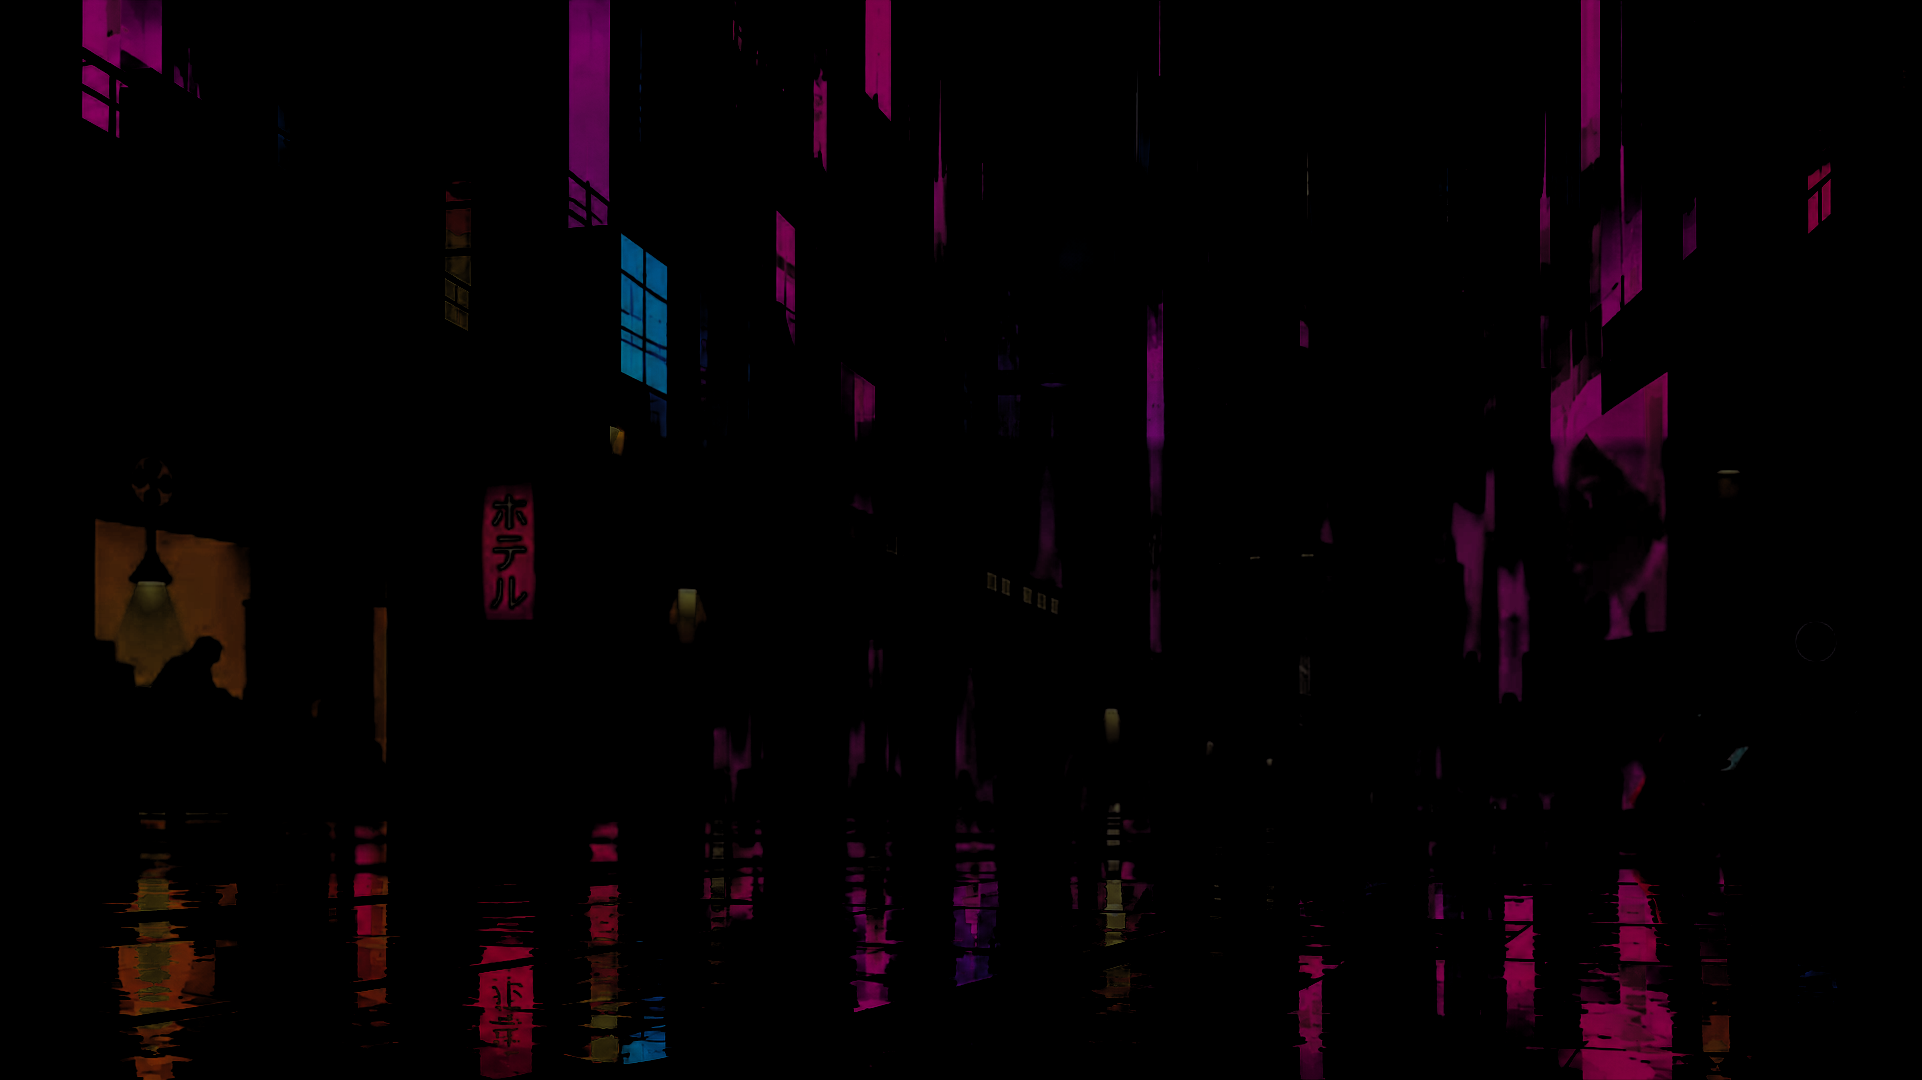
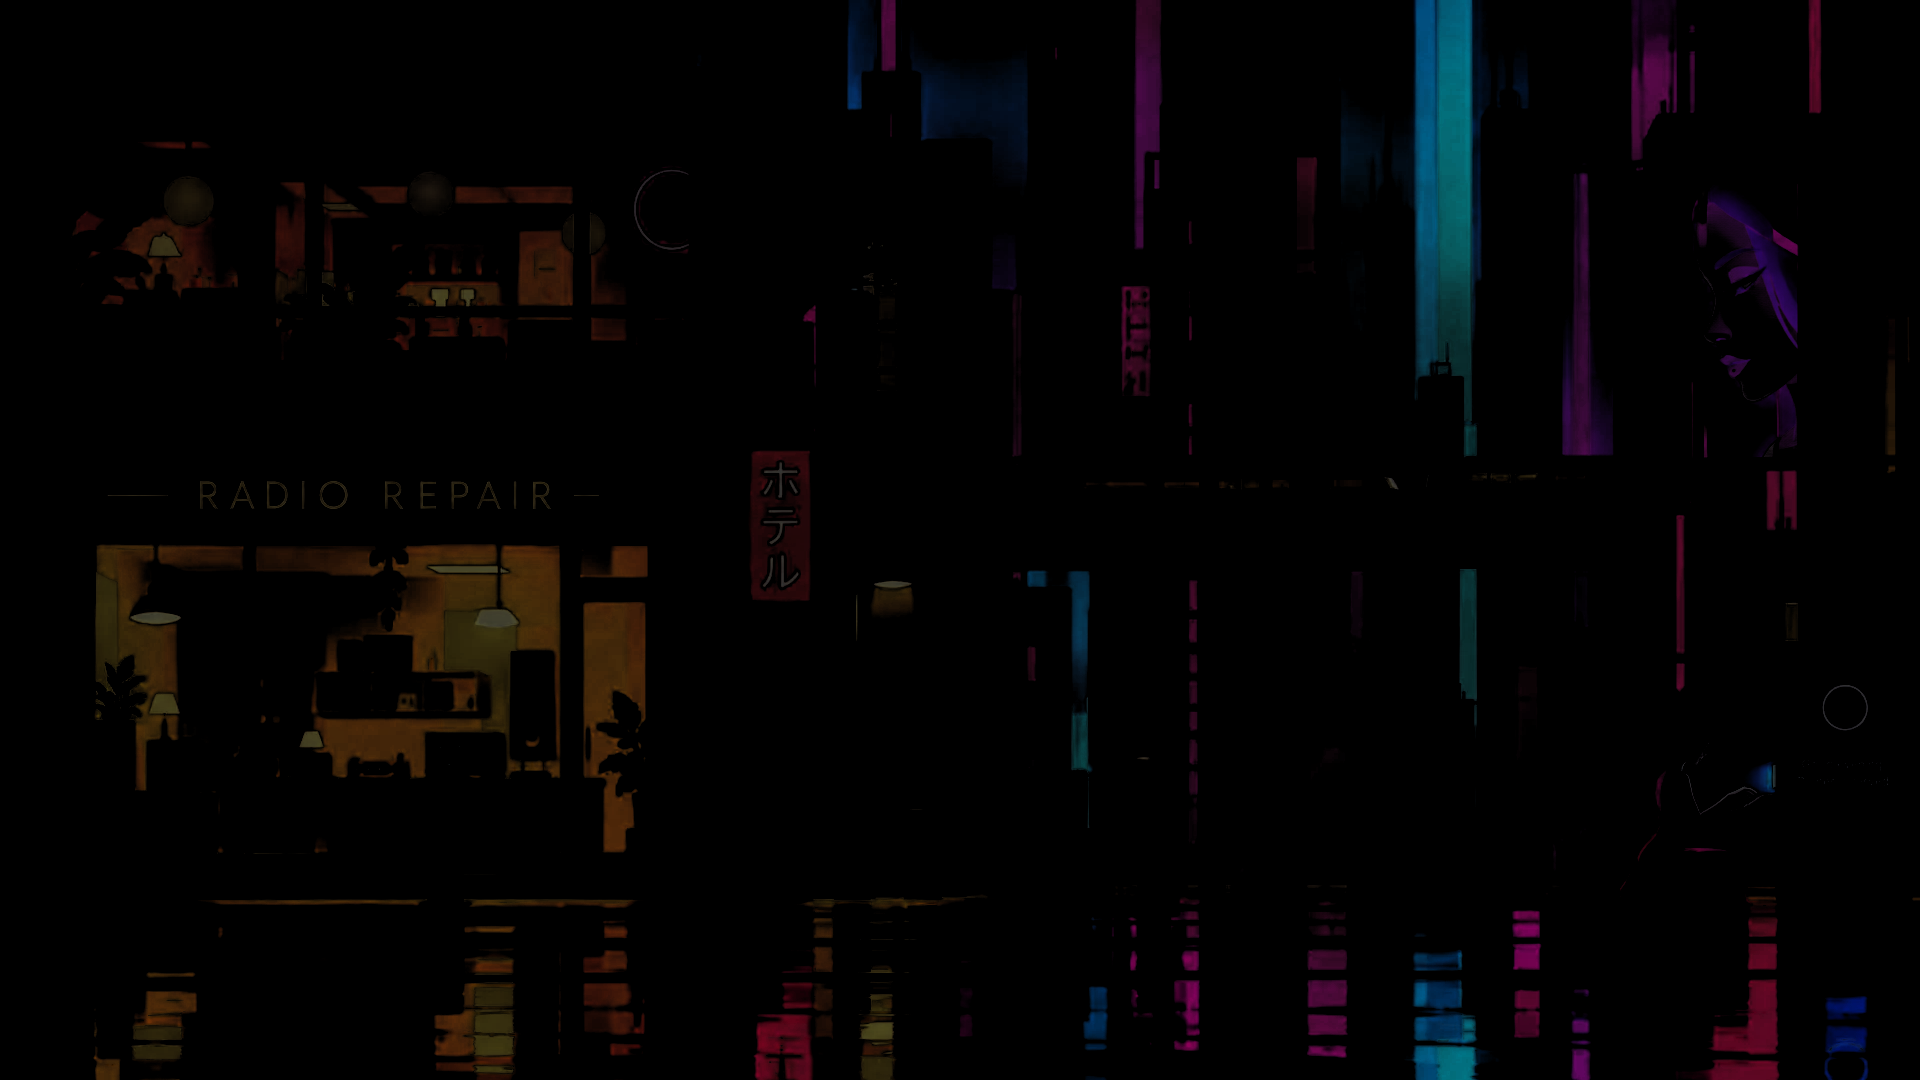
Rebuild the main street in the flat look
The director's two pictures of the street are the new look reference
(art/reference/look/, docs/art/LIDLESS_Look_Reference_v1_2026-10-19.md), chosen
so scenes can later be split into parallax layers. The street is built from them
at 2x: Lux taken out of both views, and what the story needs painted back in the
same style: the woman at the dining machine in both views, the sleeper, the
shop's gold-leaf sign, the Concierge's face on the billboard and the raw poster
in its place, and the moon. Raw lettering follows the world bible: ОТЕЛЬ, and a
blank machine screen.

Hotspots, lights, spawns, light shafts, steam, drips, beacons and indoor zones
moved onto the new picture; Lux at the reference's size along the bollards
(actorScale 0.46, walk line 452). The playthrough's clicks follow the face and
the shop door.

diff --git a/docs/ASSETS.md b/docs/ASSETS.md
@@ -208,16 +208,17 @@ loops instead: a picture as frame 0 and a few frames where only part of it chang
 
 ### Painted scenes
 
-The main street is the first scene in the current look: flat, simple shapes with the drama in the light, like a modern
-Another World (`art/reference/street-lighting-variants.webp`, `style-another-world-modern-2.webp`). Its background is
-one picture per view with its night light painted in, and the engine adds what moves and what lights the characters.
+The main street is the first scene in the current look, the flat look (`art/reference/look/`, and
+docs/art/LIDLESS_Look_Reference_v1_2026-10-19.md): flat, simple shapes with the drama in the light, so that a scene can
+later be split into layers that move at their own speed. Its background is one picture per view with its night light
+painted in, and the engine adds what moves and what lights the characters.
 
 - `baked: 1` shows the set as painted: the scene's lights add only a little to it, and its painted reflections are not
   mirrored again; only the characters are. The lights are there for the characters: put them on the painted lamps,
   signs and windows, with a soft fill in the scene's colour (layer 1) so the hero reads against the city, and keep
   their `haze` low, or the painted glow doubles up. A lamp keeps the colour it is given in raw view.
-- `actorScale` is how big people are drawn: on the street 0.58, walking at its front edge (walk line 470), so she is in
-  the foreground and not out in the plaza; in her home 0.44, the right size for its door and furniture. Characters are
+- `actorScale` is how big people are drawn: on the street 0.46, walking along the bollards (walk line 452) at the size
+  the look reference shows her; in her home 0.44, the right size for its door and furniture. Characters are
   sampled smoothly and shrunk by averaging what each screen pixel covers, their colours bled a few pixels past their
   edges by the build, so a small figure keeps clean edges and does not sparkle or boil as she walks. Her pace on screen goes with its square root. Under 1 the engine averages the sprite's pixels, so she shrinks
   smoothly; over 1 is a closeup.
@@ -227,7 +228,7 @@ one picture per view with its night light painted in, and the engine adds what m
 - The painted art's own neon, windows and lamps glow (`glow: auto` in its recipe), so bloom and light shafts have
   something to work with; the street adds haze under its lamps, light shafts, drips from the shop's awning and steam.
 - `actorLight` shows the scene's people in their own drawn colours times a tint, one per view (the street: a touch of
-  violet in the Concierge's, olive and dimmer in raw), with the lamps near them adding their light. Flat-shaded figures
+  violet in the Concierge's, warm and dimmer in raw), with the lamps near them adding their light. Flat-shaded figures
   then read as in the concept art instead of dimmed by the night.
 - A painted scene's colours are final: the game's built-in grade and film curve are left out for it, its colours pass
   straight through with a soft shoulder over the light the game adds, so the street and its people come out as drawn
@@ -241,9 +242,12 @@ gone (`art/home/cutaway.json`): her floor lit in the middle of the frame, the ne
 city on either side. The scene walks her along her floor; the city at the sides is outside (`zones`), so the rain
 falls there, and rings from the rain only show on ground that reflects.
 
-How the street was made: `npm run asset -- extend` placed the concept panel of the Concierge's view in a 16:9 frame and
-had the rest painted around it; `touch` took Lux out of the picture, `redress --ref` made the raw view from it with
-the raw panel as reference, and `touch` added the sleeper.
+How the street was made: the two pictures of the look reference, scaled to 1920 by 1080, were imported as its two
+views. `touch` took Lux out of both and painted back what the scene's story needs: the woman at the dining machine (in
+raw first, then laid under the Concierge's picture so its woman in red kneels in the same place), the sleeper in raw,
+the shop's gold-leaf sign in both views, the Concierge's face on the billboard with a poster in its place in raw, and
+the moon. Raw lettering follows the world bible: the hotel sign reads ОТЕЛЬ and the machine's screen is blank. The
+earlier painted street is in git's history.
 
 Lux was designed again in the look: `art/cast/lux-concierge.json` generated her Concierge self in profile with the
 flat reference figure from the concept art, and `redress` made her raw self from it, the same outline in her worn

diff --git a/docs/art/LIDLESS_Look_Reference_v1_2026-10-19.md b/docs/art/LIDLESS_Look_Reference_v1_2026-10-19.md
@@ -1,0 +1,65 @@
+# LIDLESS — The flat look: look reference v1
+**19 October 2026 · the current reference for how the game looks**
+
+The director chose the flat look for the game: flat, simple shapes with the drama in the light, glow and reflections.
+It replaces the painted street of the earlier references (`art/reference/street-*`, `style-*`). One reason for it is
+the next step: flat shapes come apart cleanly, so a scene's foreground and background can be split into layers that
+move at their own speed (parallax).
+
+## The pictures
+
+In `art/reference/look/`, the main street in both views, as the director proposed it:
+
+| File | What it shows |
+| --- | --- |
+| `flat-street-concierge.webp` | The Concierge's street: a warm bar upstairs, the radio shop glowing gold, a red neon ホテル, a city of violet, blue, pink and cyan towers, a train on the viaduct, the dining machine with its blue ring. |
+| `flat-street-raw.webp` | The same street in raw view: the same building dim and worn, smokestacks and refinery towers in amber-brown smog, the machine rusted, with pipes. |
+
+Lux walks along the bollards in both, about a fifth of the picture tall.
+
+## What makes the look
+
+- **Shapes.** Large flat areas of colour, a few tones per surface, crisp edges, little texture. Buildings are blocks,
+  towers are slabs, plants and people are silhouettes or simple figures.
+- **Light.** The light is where the detail goes: glowing windows, lamps throwing cones through the air, neon, and long
+  vertical reflections on the wet ground. The engine adds what moves: rain, drips, steam, light shafts, bloom, the
+  traffic, the beacons, and the lights on the characters.
+- **The two views.** The same buildings in the same places. The Concierge's view is saturated violet, blue, pink and
+  cyan, warm and clean; raw view is the same street in amber-brown smog, industrial and rusted.
+
+## The street in the game
+
+`art/street/vista.json` is built from the two pictures at twice the level's resolution (see ASSETS.md, Resolution).
+What the scene's story needs was painted back in the same style, and everything else is as proposed:
+
+| Added | Why |
+| --- | --- |
+| The woman at the dining machine: in raw, wire-thin, her wrist locked in its cradle; to the Concierge, a woman in a red dress, dining | A story beat (hotspot `dock`) |
+| A man asleep on the shop's step, raw view only | Hotspot `sleeper` |
+| The shop's gold-leaf sign: RADIO REPAIR, and РЕМОНТ РАДИО in raw | Hotspot `sign`; the world bible's hand-made lettering on the radio repair shop |
+| The Concierge's face on the tall billboard, and in raw a faded poster of a stern man, ПОРЯДОК | Hotspot `sky` |
+| A pale moon in the raw smog | Hotspot `moon` |
+| Raw lettering: the corner sign reads ОТЕЛЬ, the dining machine's screen shows no text | The world bible: raw view's signs are faint Russian or gone (Decided) |
+
+Lux is drawn at the size the pictures show her, walking along the bollards (`actorScale` 0.46, walk line 452).
+
+## Open points
+
+- **Raw colour.** The raw picture is warm amber and brown. The world bible describes raw view as cold, lit a sterile
+  white, with the colour in a yellow-green fog. The street keeps the picture's colours; the bible's description is the
+  director's to update or keep.
+- **Lux.** In the pictures she wears the long red coat closed, the same in both views. Her sprite follows her character
+  reference (`LIDLESS_Lux_Character_Reference_v1_2026-10-19.md`) until the director decides otherwise.
+- **Other places.** Lux's home, the backstreet and the radio repair are still in the earlier, more painted look.
+
+## Layers, later
+
+The street divides naturally into planes: the sky and the far towers; the viaduct and its train; the near street with
+the shop, the lamp, the bollards and the dining machine; and the wet ground with its reflections. Each plane can be
+drawn on its own with these pictures as reference, and a layer's `parallax` in its sprite sets how fast it moves with
+the camera.
+
+## Change log
+
+- **v1 · 2026-10-19:** the director's two pictures stored as the reference for the look; the main street built from
+  them, with what its story needs painted back in.

diff --git a/docs/README.md b/docs/README.md
@@ -8,6 +8,7 @@
 | [story/LIDLESS_World_Bible_and_Writing_Brief_2026-10-17.md](story/LIDLESS_World_Bible_and_Writing_Brief_2026-10-17.md) | The world bible and writing brief: what the game implements today (scene ids, hotspot ids, the two views) and the Ink format scripts must follow. A snapshot; the live version is the [Claude doc](https://claude.ai/code/artifact/7554cdcf-7d3e-4f74-a962-a2c0afb30004). |
 | [art/LIDLESS_Art_Feedback_v0.1_2026-10-17.md](art/LIDLESS_Art_Feedback_v0.1_2026-10-17.md) | The art review of the first four places: physical scale, perspective and continuity between the views come before any polish. |
 | [art/LIDLESS_Lux_Character_Reference_v1_2026-10-19.md](art/LIDLESS_Lux_Character_Reference_v1_2026-10-19.md) | Lux's design reference: the nine study sheets in both views, the rendering-style and character prompts, where the sheets disagree, and the clothed panels the image pipeline may use. The current reference for her final design. |
+| [art/LIDLESS_Look_Reference_v1_2026-10-19.md](art/LIDLESS_Look_Reference_v1_2026-10-19.md) | The flat look: the director's two pictures of the main street, what makes the look, what was painted back for the story, open points, and how a scene splits into layers for parallax. The current reference for how the game looks. |
 
 When the narrative bible and the world bible disagree, flag it rather than quietly choosing one: the world bible is what the code and art are built on, the narrative bible is where the story is going.
 
